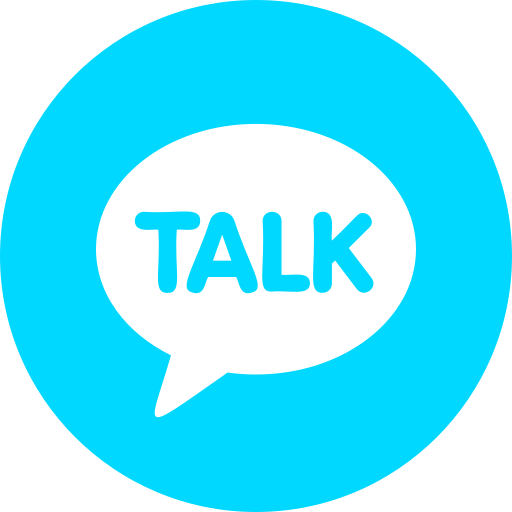
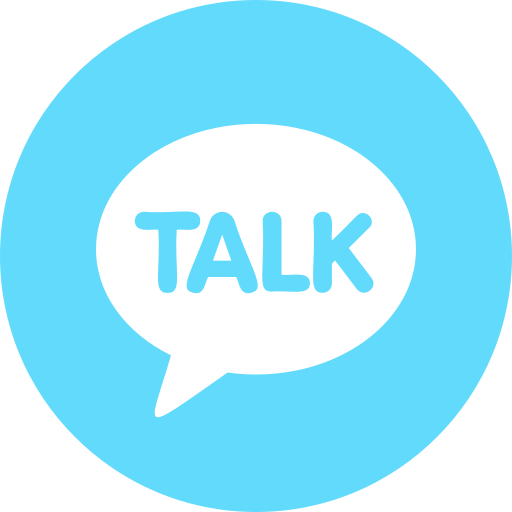
2021.12.22 modify carousel

diff --git a/src/works.js b/src/works.js
@@ -5,23 +5,47 @@ import "slick-carousel/slick/slick.css";
 import "slick-carousel/slick/slick-theme.css";
 import Slider from "react-slick";
 import "./slick.css";
+import balook from './static/images/balook.png'
+import conady from './static/images/코나디.png';
+import tooni from './static/images/tooni.png';
+import sollama from './static/images/sollama.png';
+import logo from './static/images/logo.png';
+import todo from './static/images/todo.png';
 
 function Works() {
+    const [workList, setWorkList] = useState([
+        { title: 'Todolist', backgroundcolor: '#E5C6FA', color: '#891796', url: todo, width: 350 },
+        { title: 'Conady admin', backgroundcolor: '#fff', color: '#891796', url: conady, width: 350 },
+        { title: 'Conady mobile', backgroundcolor: '#fff', color: '#891796', url: conady, width: 350 },
+        { title: 'Sollamas', backgroundcolor: '#250B28', color: 'white', url: sollama, width: 350 },
+        { title: 'Tooni', backgroundcolor: '#292D4F', color: 'white', url: tooni, width: 100 },
+        { title: 'Balook', backgroundcolor: '#4B4B4B', color: 'white', url: balook, width: 350 }
+    ]);
+
 
     const renderSlides = () =>
-        [1, 2, 3, 4, 5, 6, 7, 8].map(num => (
-            <div className='hi'  >
-                <div className='content front'>
-                    <div className='top'>
-                    </div>
-                    <div className='bottom'>
+        workList.map((item, index) => (
+            <div key={index} className='hi'  >
+                <div className='content front' style={{ borderStyle: 'solid', borderWidth: '4px', borderColor: 'black' }}>
+                    <div className='top' style={{ backgroundColor: item.backgroundcolor, display: 'flex', flexDirection: 'column' }}>
+                        <img style={{ backgroundColor: item.backgroundcolor, width: item.width }} src={item.url} />
+                        {item.title == 'Conady admin' ?
+                            <span style={{ color: '#891796', fontWeight: 'bold', fontFamily: 'Urbanist', fontSize: '30px' }}>admin</span>
+                            :
+                            <span />
+                        }
+                        {item.title == 'Conady mobile' ?
+                            <span style={{ color: '#891796', fontWeight: 'bold', fontFamily: 'Urbanist', fontSize: '30px' }}>mobile</span>
+                            :
+                            <span />
+                        }
                     </div>
                 </div>
-                <div className='content back'>
-                    <div className='top'>
-                        <span>dd</span>
+                <div className='content back' style={{ borderStyle: 'solid', borderWidth: '4px', borderColor: 'black' }}>
+                    <div className='top1' style={{ backgroundColor: item.backgroundcolor }}>
+                        <span style={{ color: item.color }}>{item.title}</span>
                     </div>
-                    <div className='bottom'>
+                    <div className='bottom1' style={{ backgroundColor: item.backgroundcolor }}>
                     </div>
                 </div>
             </div>

diff --git a/src/slick.css b/src/slick.css
@@ -16,10 +16,19 @@
     /* background-color: transparent; */
     color: #fff;
     text-align: center;
-    height: 500px;
+    height: 600px;
     width: 1000px;
     border-radius: 50px;
     margin: 0px 10px;
+    display: flex;
+    align-items: center;
+  }
+
+  
+  .Works .slick-slide{
+    height: 600px;
+    display: flex;
+    align-items: center;
   }
   
   .hi {
@@ -38,19 +47,38 @@
     height: 500px;
     margin: 0 auto;
     border-radius: 50px;
+    overflow:hidden
   }
 
   .Works .main_container .sub_container .hi .content .top {
-    height: 300px;
+    height: 500px;
     width: 100%;
-    background-color: #17191b;
     border-radius: 50px 50px 0px 0px;
+    display: flex;
+    align-items: center;
+    justify-content: center;
   }
 
   .Works .main_container .sub_container .hi .content .bottom {
+    /* border-top: 4px solid black;
     height: 200px;
     width: 100%;
     background-color: white;
+    border-radius: 0px 0px 50px 50px;
+    padding: 0px 20px;
+    display: flex;
+    align-items: center; */
+  }
+
+  .Works .main_container .sub_container .hi .content .top1 {
+    height: 300px;
+    width: 100%;
+    border-radius: 50px 50px 0px 0px;
+  }
+
+  .Works .main_container .sub_container .hi .content .bottom1 {
+    height: 200px;
+    width: 100%;
     border-radius: 0px 0px 50px 50px;
   }
 
@@ -69,6 +97,7 @@
       background-size: 46px;
       opacity: 1 !important;
       }
+      
     .slick-next:before{
       width: 46px;
       height: 46px;
@@ -86,28 +115,50 @@
 
 /* 캐러셀 내용물 뒤집기 */
 
-.Works .main_container .sub_container .hi .content {
-  perspective: 300px;
+.Works .main_container .sub_container .hi  {
+  perspective: 1000px;
 }
 
-.Works .main_container .sub_container .hi .content content {
+.Works .main_container .sub_container .hi .content  {
   backface-visibility: hidden;
   transition: 1s;
 }
 
-.Works .main_container .sub_container .hi .content content.front {
+.Works .main_container .sub_container .hi .content.front {
   position: absolute;
   transform: rotateY(0deg);
 }
 
-.Works .main_container .sub_container .hi .content:hover content.front {
+.Works .main_container .sub_container .hi:hover .content.front {
   transform: rotateY(-180deg);
 }
 
-.Works .main_container .sub_container .hi .content content.back {
+.Works .main_container .sub_container .hi .content.back {
   transform: rotateY(-180deg);
 }
 
-.Works .main_container .sub_container .hi .content:hover content.back {
+.Works .main_container .sub_container .hi:hover .content.back {
   transform: rotateY(0deg);
+}
+
+
+.Works .main_container .sub_container .hi .content .bottom ul li {
+  display: flex;
+  color:black;
+  font-size: 15px;
+  font-weight: bold;
+  font-family: EliceDigitalBaeum_Regular;
+  text-align: start;
+  
+}
+
+.Works .main_container .sub_container .hi .content .bottom ul #pj_title {
+ font-size: 20px;
+ font-weight: bold;
+ font-family: EliceDigitalBaeum_Regular;
+ 
+}
+.Works .main_container .sub_container .hi .content .top img {
+  /* width: 350px;
+  background-color: #4B4B4B; */
 }

diff --git a/src/timeline.js b/src/timeline.js
@@ -109,7 +109,7 @@ function Timeline() {
                         <span>{progressment()}</span>
                         <div className='history'>
                             <div className='progressbar'>
-                                <div style={{ width: 9 * value, transition: '1s', overflow: 'hidden' }}>
+                                <div style={{ width: 9 * value-15, transition: '1s', overflow: 'hidden' }}>
                                     <div style={{ height: '1px', width: '0px', backgroundColor: '#22262A' }} className='progressbar_1' color="warning" className="mb-3" >
                                     </div>
                                 </div>
@@ -118,7 +118,7 @@ function Timeline() {
                                 </div>
                             </div>
                             <div className='progressbar1'>
-                                <div style={{ position: 'relative', height: '5px', width: 9 * value, transition: '1s', backgroundColor: '#00D8FF', borderRadius: '50px' }} className='progressbar_1' color="warning" className="mb-3" >
+                                <div style={{ position: 'relative', height: '5px', width: 9 * value, transition: '1s', backgroundColor: '#61DAFB', borderRadius: '50px' }} className='progressbar_1' color="warning" className="mb-3" >
                                     <div style={{ position: 'absolute', height: '5px', width: '0px', backgroundColor: '#22262A' }} className='progressbar_1' color="warning" value={value} className="mb-3" />
                                 </div>
                             </div>

diff --git a/src/App.js b/src/App.js
@@ -159,7 +159,7 @@ function App() {
         <div onClick={() => { fnc(num)}} style={{
         cursor: 'pointer',
         fontWeight: "bold",
-        color: scrollIndex === num ? "#00D8FF" : "white",
+        color: scrollIndex === num ? "#61DAFB" : "white",
         fontFamily: "Urbanist",
         fontSize: '17px',
         backgroundColor: 'transparent'}}>{num}

diff --git a/src/home.scoped.css b/src/home.scoped.css
@@ -46,7 +46,7 @@
   font-weight: bold;
   border-radius: 50px;
   background-color: transparent;
-  border: 4px solid #00D8FF;
+  border: 4px solid #61DAFB;
 	overflow: hidden;
 	position: relative;
   display: inline-block;

diff --git a/src/about.scoped.css b/src/about.scoped.css
@@ -69,7 +69,7 @@
 }
 
 .about .main_container .sub_container .ment #blue {
-  color: #00D8FF;
+  color: #61DAFB;
   font-weight: bold;
 }
 

diff --git a/src/works.scoped.css b/src/works.scoped.css
@@ -18,3 +18,4 @@
   margin-left: 300px;
   align-items: center;
 }
+
